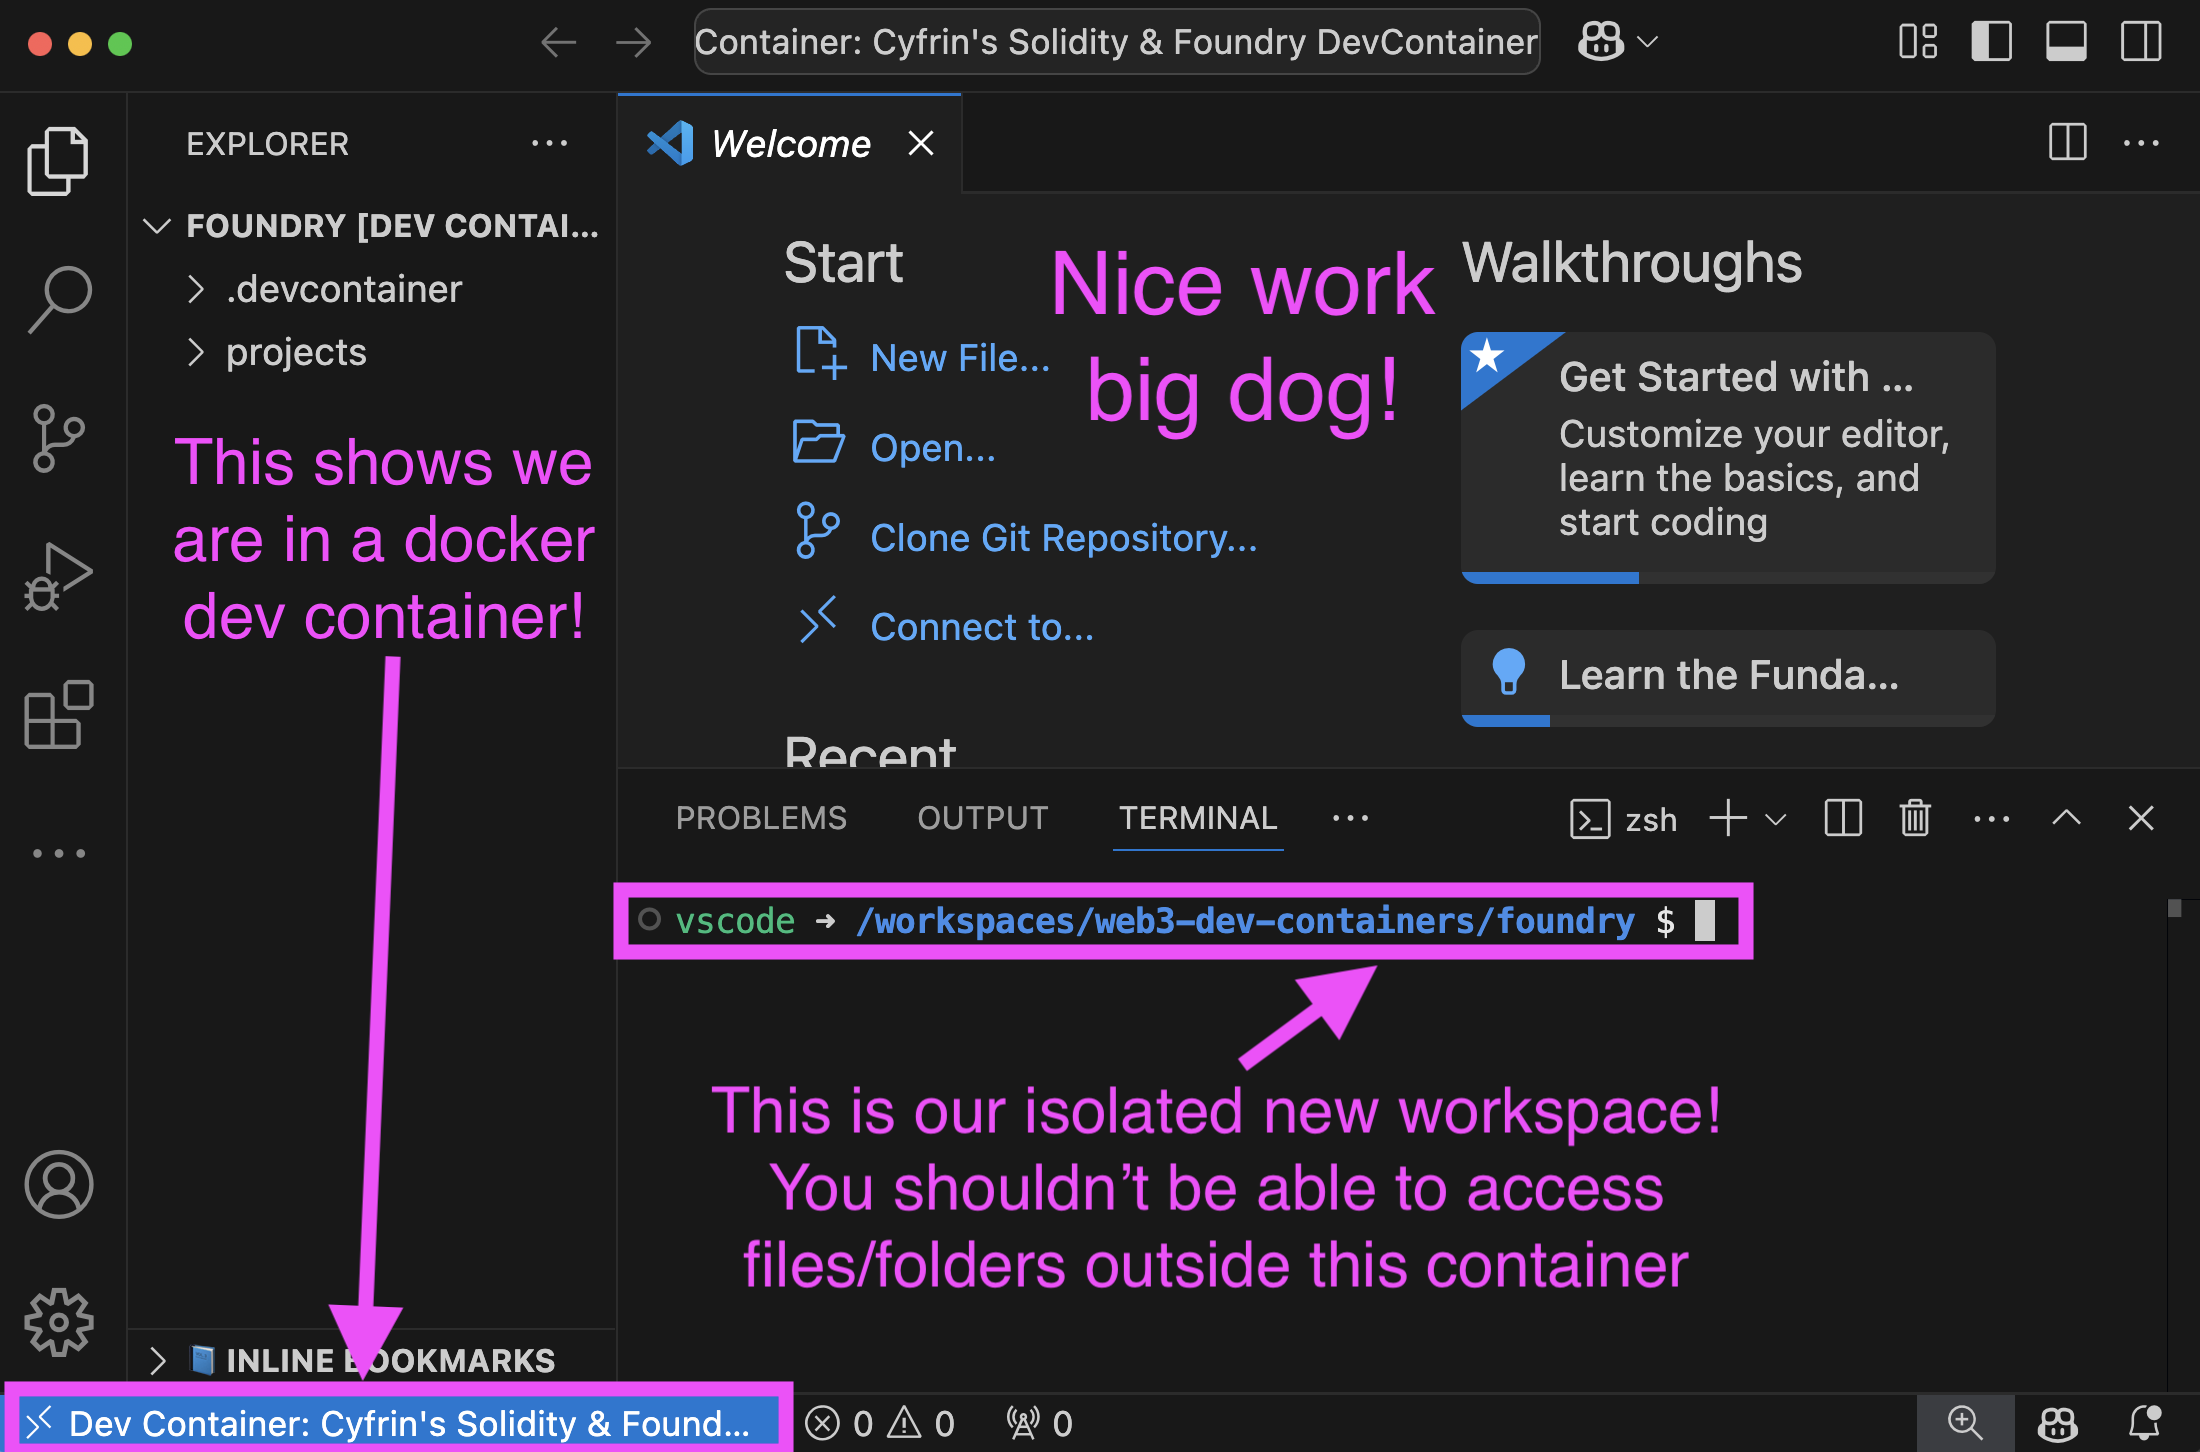
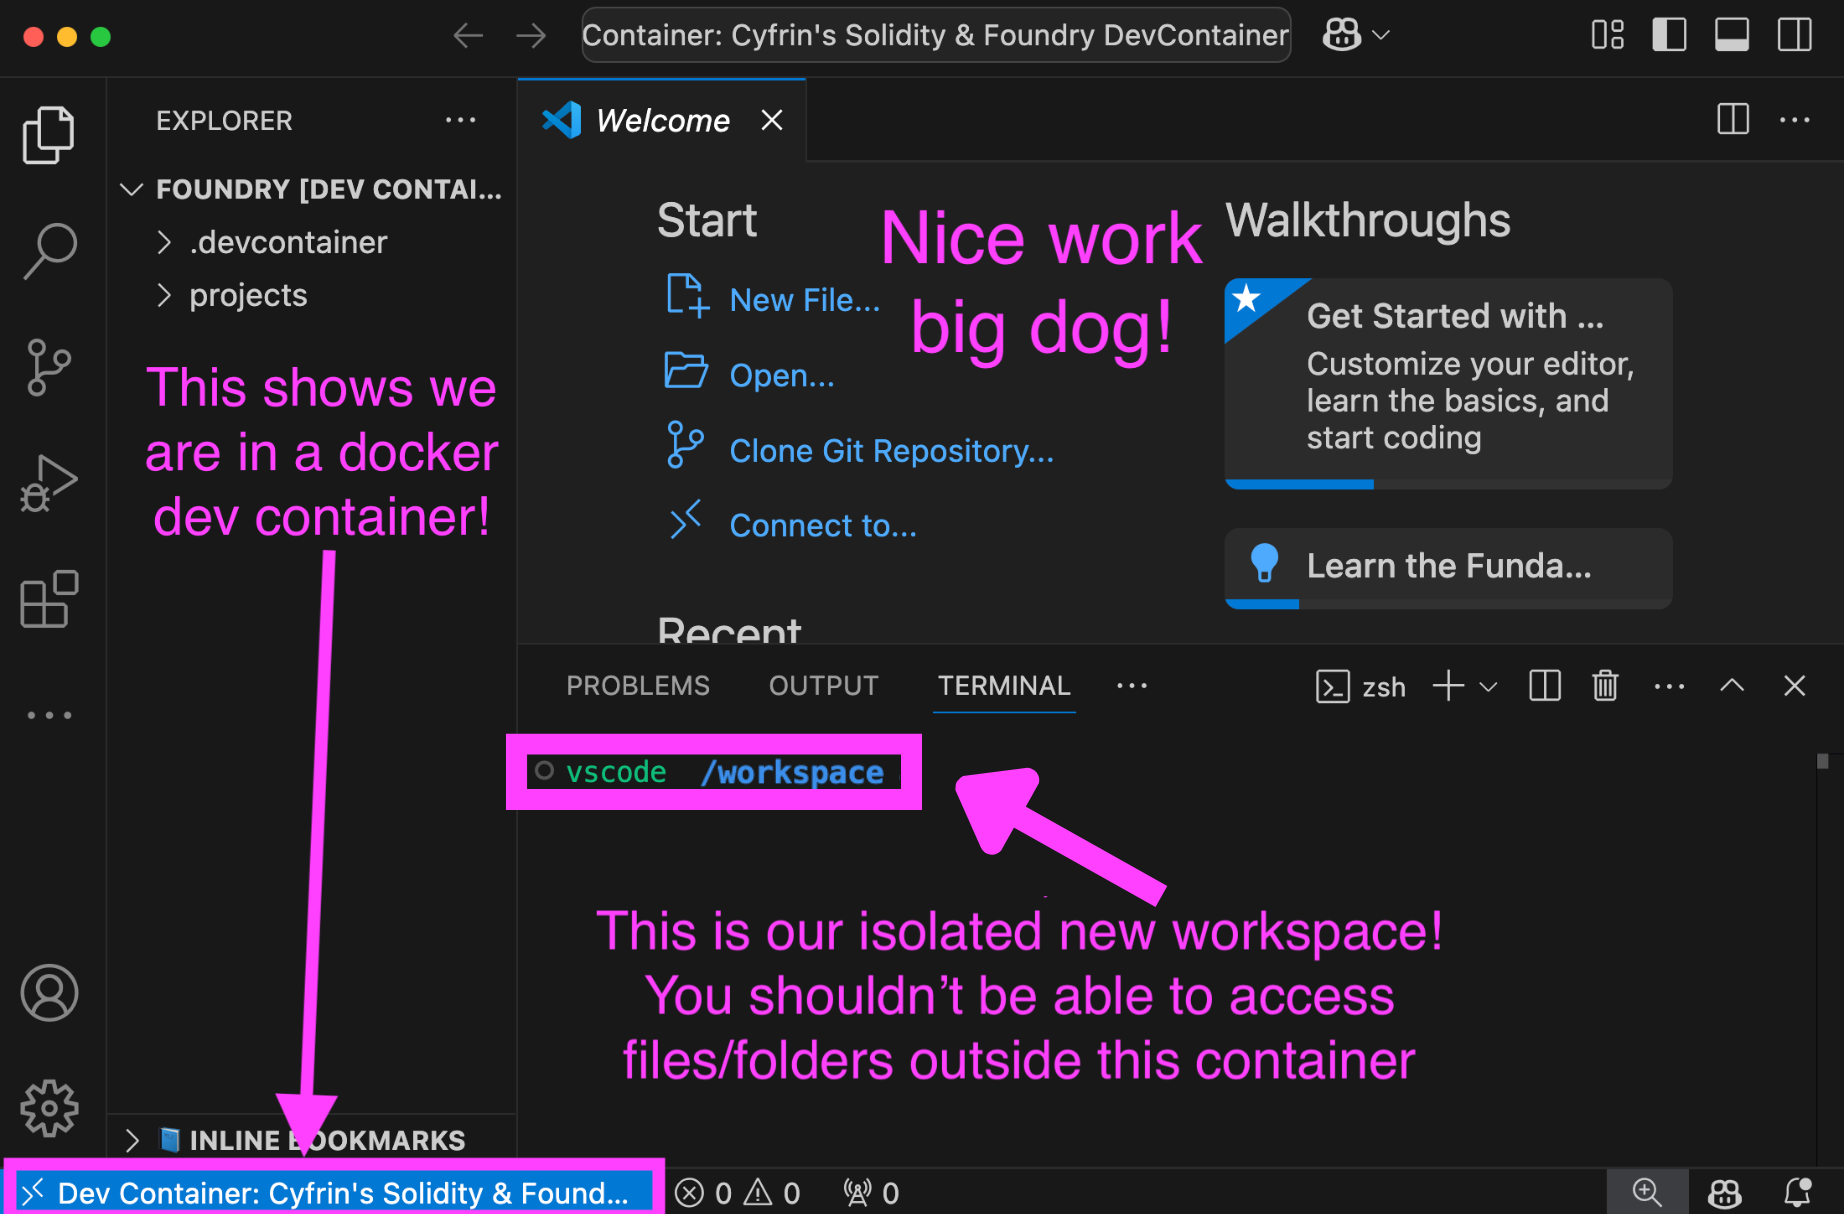
update

diff --git a/README.md b/README.md
@@ -4,7 +4,7 @@
 
 A repo to help you run code in a safer manner in the web3 ecosystem. You open up your code in an isolated docker environment so you have a smaller chance of getting hacked.
 
-*Important: This isn't a fail-safe!* 
+*Important: This isn't a fail-safe! There is no 100% secure way to run code you are unfamiliar with. But running code in an isolated environment is at least much better.* 
 
 You can read more about the importance of sandboxing, containers vs VMs, and more in the [Red Guild Blog](https://blog.theredguild.org/where-do-you-run-your-code/).
 
@@ -28,6 +28,7 @@ You can read more about the importance of sandboxing, containers vs VMs, and mor
     - [Mounted](#mounted-1)
     - [Using on an existing project](#using-on-an-existing-project-1)
 - [Acknowledgements](#acknowledgements)
+- [Security considerations](#security-considerations)
 
 ## Why are dev containers important?
 
@@ -121,9 +122,9 @@ You should get opened up into a new window that looks like this:
     <br />
 </p>
 
-3. Clone your project into the `projects` folder
+You should be at `/workspace` folder. 
 
-You should be at `/workspace`. 
+3. You can then clone a project into the `projects` folder and start working on it
 
 ```bash
 git clone https://github.com/Cyfrin/foundry-fund-me-cu # Example project
@@ -132,11 +133,11 @@ forge build
 forge test
 ```
 
-This will clone the project into the `projects` folder and you can start working with your projects, knowing that scripts are isloated to this dev container!
+Now, you can start working on the project knowing you're in a safer environment!
 
 4. Tear down
 
-When you're done, you can delete the docker container in your docker dashboard, or run `docker ps` to get the container ID and run `docker stop <container-id>` to stop the container.
+When you're done, you can delete the docker container in your docker dashboard, or run `docker ps` *on your host machine, not inside your dev container* to get the container ID and run `docker stop <container-id>` to stop the container.
 
 To do it via the CLI, back on your host machine run:
 
@@ -240,3 +241,15 @@ Resource Limits:
 
 # Acknowledgements
 - [The Red Guild](https://blog.theredguild.org/where-do-you-run-your-code/)
+
+# Security considerations
+
+Using a dev container is not a 100% secure way to run code you are unfamiliar with. It is a safer way to run code, but it is not foolproof. You may still want to be nervous about running code you're unfamiliar with! There are a number of exploits to be aware of, including:
+
+- Network access: Unless you restrict network access in your docker container, it can still access the internet. This means it can still send data to a remote server.
+- Resource constraints: Docker containers can still use up all your CPU and memory if you're not careful. You can also adjust your `Dockerfile` to account for these.
+- Docker escape exploits: There can still be ways to escape a docker container and access your host machine. These are rare, but they do exist.
+
+There are a few things to consider that we've more or less covered for you in this repo, but important to know:
+- Never run a docker container with a `root` user, this is why we use the `vscode` user in the `Dockerfile`
+- Volume mounting: If you mount a volume from your host machine, the container can access your host machine's files. Be careful what you mount! This is why the default here is `unmounted`
